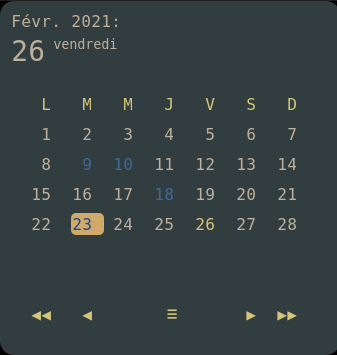
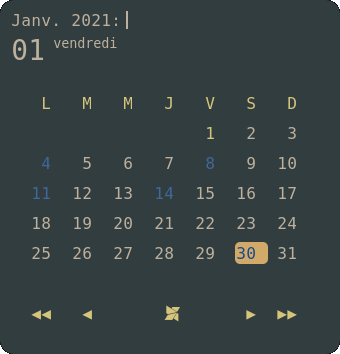
add themes

diff --git a/src/naivecalendar.py b/src/naivecalendar.py
@@ -210,7 +210,6 @@ def set_list(default, section, key, row):
     elif key == 'SYMS_DAYS_NUM':
         return to_list(vals)
     else: # parse config values
-        #return to_list(vals)
         return [CONTROL_MENU_ID[x.strip()] if x.strip() in CONTROL_MENU_ID.keys() else x for x in to_list(vals)]
 
 def to_int(section, key):
@@ -969,7 +968,7 @@ def ask_theme():
     themes = list2rofi(sorted(set(themes)))
     #themes = '\n'.join((t.split('/')[-1] for t in themes))
 
-    theme = rofi_popup("select theme", themes, nb_col=2, nb_lines=9, width='30em')
+    theme = rofi_popup("select theme", themes, nb_col=3, nb_lines=9, width='45em')
     if theme in themes:
         set_theme_cache(theme)
     else :

diff --git a/docs/themes.rst b/docs/themes.rst
@@ -26,8 +26,8 @@ Dark & Light : classic, extended, variant
 
 |classic dark variant| |classic light variant|
 
-Compact
--------
+Compact : dark, light, retro-blue
+---------------------------------
 
 |classic dark compact| |classic light compact| |retro blue compact| 
 
@@ -41,10 +41,10 @@ Modern : blue & wedgewood
 
 |modern blue| |modern wedgewood|
 
-Magnolia & Carbon Gold
-----------------------
+Magnolia, carbon gold, pastel blue & slate
+------------------------------------------
 
-|magnolia| |carbon gold|
+|magnolia| |carbon gold| |pastel blue| |slate|
 
 Misc : paper-float, lead pencil, blackboard & material
 ------------------------------------------------------
@@ -116,5 +116,11 @@ Misc : paper-float, lead pencil, blackboard & material
     :height: 170px
 
 .. |carbon gold| image::  ./screenshots/carbon_gold.png
+    :height: 170px
+
+.. |slate| image::  ./screenshots/slate.png
+    :height: 170px
+
+.. |pastel blue| image::  ./screenshots/pastel_blue.png
     :height: 170px
 
